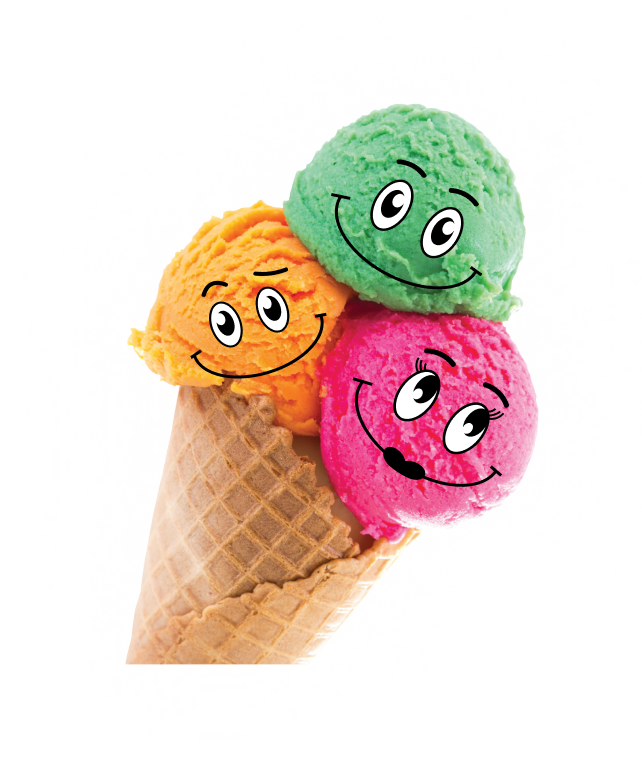
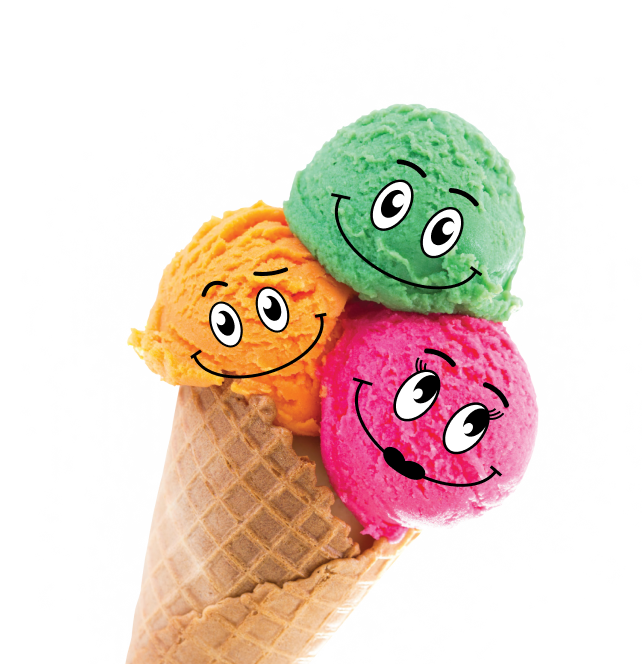
change hero images

diff --git a/src/sass/layouts/_hero.scss b/src/sass/layouts/_hero.scss
@@ -294,8 +294,9 @@
 
 .ice-cream-hero {
   position: absolute;
-  top: 121px;
-  left: 111px;
+  top: 0;
+  left: 0;
+  transform: translate(11%, 44%);
   pointer-events: none;
 
   animation-name: scaleAnimation;
